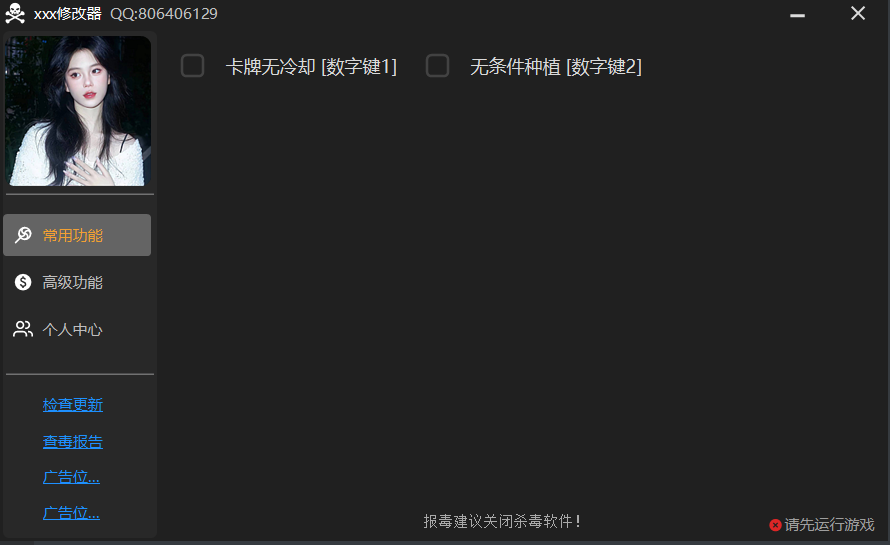
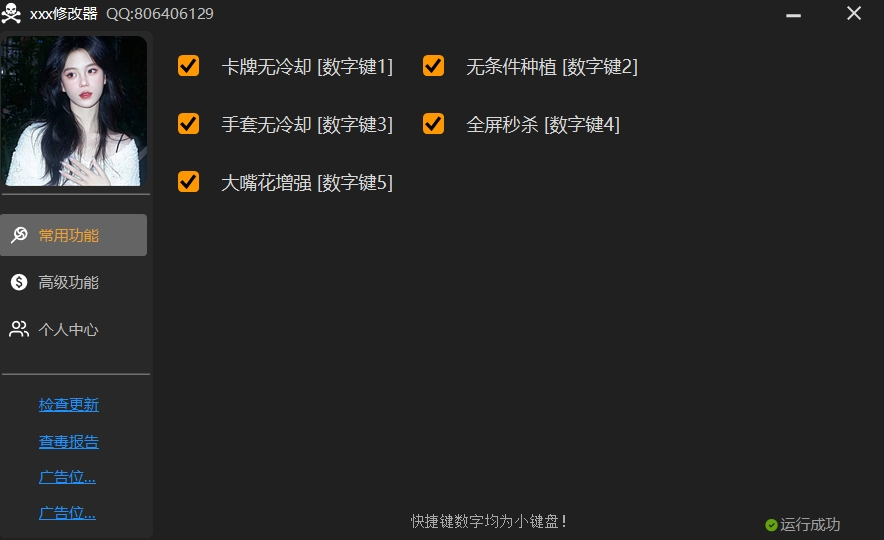
edit README.md

diff --git a/Service/Service1.cs b/Service/Service1.cs
@@ -9,31 +9,98 @@ namespace TbBaiZhouKeJi
         public static Mem MemLib = new Mem();
         private static List<Func<bool, bool>> openingFunctionList = new List<Func<bool, bool>>();
 
-        //无CD
-        public static bool RemoveCd(bool isOpen)
+
+
+        //卡牌无冷却
+        public static bool Cheat1(bool isOpen)
         {
+            var address = "GameAssembly.dll+3BFF85";
+            var oldValue = "F3 0F 10 43 48";
+            var newValue = "90 90 90 90 90";
             if (isOpen)
             {
-                return MemLib.WriteMemory("GameAssembly.dll+3BFF85", "bytes", "90 90 90 90 90");
+                return MemLib.WriteMemory(address, "bytes", newValue);
             }
             else
             {
-                return MemLib.WriteMemory("GameAssembly.dll+3BFF85", "bytes", "F3 0F 10 43 48");
+                return MemLib.WriteMemory(address, "bytes", oldValue);
             }
         }
         //无条件种植
-        public static bool RemoveCost(bool isOpen)
+        public static bool Cheat2(bool isOpen)
         {
+            //ui
+            var address1 = "GameAssembly.dll+3C004B";
+            var oldValue1 = "7C 49 80 7B 51 00";
+            var newValue1 = "90 90 90 90 90 00";
+            //阳光
+            var address2 = "GameAssembly.dll+36EFB2";
+            var oldValue2 = "7C 26";
+            var newValue2 = "90 90";
             if (isOpen)
             {
-                var a = MemLib.WriteMemory("GameAssembly.dll+3C004B", "bytes", "90 90 90 90 90 00");
-                var b = MemLib.WriteMemory("GameAssembly.dll+36EFB2", "bytes", "90 90");
+                var a = MemLib.WriteMemory(address1, "bytes", newValue1);
+                var b = MemLib.WriteMemory(address2, "bytes", newValue2);
                 return a && b;
             }
             else
             {
-                var a = MemLib.WriteMemory("GameAssembly.dll+3C004B", "bytes", "7C 49 80 7B 51 00");
-                var b = MemLib.WriteMemory("GameAssembly.dll+36EFB2", "bytes", "7C 26");
+                var a = MemLib.WriteMemory(address1, "bytes", oldValue1);
+                var b = MemLib.WriteMemory(address2, "bytes", oldValue2);
+                return a && b;
+            }
+        }
+        //手套无冷却
+        public static bool Cheat3(bool isOpen)
+        {
+            var address = "GameAssembly.dll+375394";
+            var oldValue = "C7 47 34 00 00 00 00";
+            var newValue = "C7 47 34 00 00 30 41";
+            if (isOpen)
+            {
+                return MemLib.WriteMemory(address, "bytes", newValue);
+            }
+            else
+            {
+                return MemLib.WriteMemory(address, "bytes", oldValue);
+            }
+        }
+        //全屏秒杀
+        public static bool Cheat4(bool isOpen)
+        {
+            var address = "GameAssembly.dll+346DC6";
+            var oldValue = "72 15 48 8B 03";
+            var newValue = "90 90 48 8B 03";
+            if (isOpen)
+            {
+                return MemLib.WriteMemory(address, "bytes", newValue);
+            }
+            else
+            {
+                return MemLib.WriteMemory(address, "bytes", oldValue);
+            }
+        }
+        //大嘴花增强
+        public static bool Cheat5(bool isOpen)
+        {
+            //秒吞
+            var address1 = "GameAssembly.dll+3E308D";
+            var oldValue1 = "72 19";
+            var newValue1 = "90 90";
+            //距离
+            var address2 = "GameAssembly.dll+3FEA12";
+            var oldValue2 = "C7 83 60 01 00 00 00 00 C0 3F";
+            var newValue2 = "C7 83 60 01 00 00 00 00 C0 43";
+            if (isOpen)
+            {
+                var a = MemLib.WriteMemory(address1, "bytes", newValue1);
+                var b = MemLib.WriteMemory(address2, "bytes", newValue2);
+                return a && b;
+            }
+            else
+            {
+                var a = MemLib.WriteMemory(address1, "bytes", oldValue1);
+                var b = MemLib.WriteMemory(address2, "bytes", oldValue2);
                 return a && b;
             }
         }

diff --git a/View/Form1.cs b/View/Form1.cs
@@ -12,10 +12,9 @@ namespace TbBaiZhouKeJi
 {
     { 1, "卡牌无冷却" },
     { 2, "无条件种植" },
-    //{ 3, "一击致命" },
-    //{ 4, "一击致命" },
-    //{ 5, "一击致命" },
-    //{ 6, "一击致命" },
+    { 3, "手套无冷却" },
+    { 4, "全屏秒杀" },
+    { 5, "大嘴花增强" },
 };
 
         public Dictionary<int, AntdUI.Checkbox> checkboxList = new Dictionary<int, AntdUI.Checkbox>();
@@ -76,12 +75,19 @@ namespace TbBaiZhouKeJi
                 switch (checkbox.Tag)
                 {
                     case "1":
-                        isOpenSuccess = Service1.RemoveCd(e.Value);
+                        isOpenSuccess = Service1.Cheat1(e.Value);
                         break;
                     case "2":
-                        isOpenSuccess = Service1.RemoveCost(e.Value);
+                        isOpenSuccess = Service1.Cheat2(e.Value);
                         break;
                     case "3":
+                        isOpenSuccess = Service1.Cheat3(e.Value);
+                        break;
+                    case "4":
+                        isOpenSuccess = Service1.Cheat4(e.Value);
+                        break;
+                    case "5":
+                        isOpenSuccess = Service1.Cheat5(e.Value);
                         break;
                 }
                 if (!isOpenSuccess)//激活失败

diff --git a/View/FormMain.cs b/View/FormMain.cs
@@ -23,7 +23,7 @@ namespace TbBaiZhouKeJi
 
         public FormMain()
         {
-         
+
             ApplyFadeIn(this);
             InitializeComponent();
             AntUIConfigInit();//主题设置
@@ -50,17 +50,21 @@ namespace TbBaiZhouKeJi
         public void Subscribe()
         {
             m_GlobalHook = Hook.GlobalEvents();
-            m_GlobalHook.KeyPress += GlobalHookKeyPress;
+            m_GlobalHook.KeyUp += GlobalHookKeyUp;
         }
 
-        private void GlobalHookKeyPress(object sender, KeyPressEventArgs e)
+        private void GlobalHookKeyUp(object sender, KeyEventArgs e)
         {
-            Console.WriteLine("KeyPress: \t{0}", e.KeyChar);
+            if (e.KeyValue >= 97 && e.KeyValue <= 105)
+            {
+                //Console.WriteLine(e.KeyValue - 96);
+                HotkeyPressed.Invoke(e.KeyValue - 96);
+            }
         }
 
         public void Unsubscribe()
         {
-            m_GlobalHook.KeyPress -= GlobalHookKeyPress;
+            m_GlobalHook.KeyUp -= GlobalHookKeyUp;
             m_GlobalHook.Dispose();
         }
 

diff --git a/View/Form1.Designer.cs b/View/Form1.Designer.cs
@@ -33,6 +33,7 @@
             // 
             // flowPanel1
             // 
+            this.flowPanel1.Align = AntdUI.TAlignFlow.Left;
             this.flowPanel1.Dock = System.Windows.Forms.DockStyle.Fill;
             this.flowPanel1.Location = new System.Drawing.Point(0, 0);
             this.flowPanel1.Name = "flowPanel1";

diff --git a/README.md b/README.md
@@ -1,3 +1,5 @@
-一个winform写的游戏修改器通用制作模板
+游戏修改器通用模板
+
+以[植物大战僵尸融合版](https://space.bilibili.com/3546619314178489/dynamic)为例
 
 ![image-20241212094900068](README/image-20241212094900068.png)
